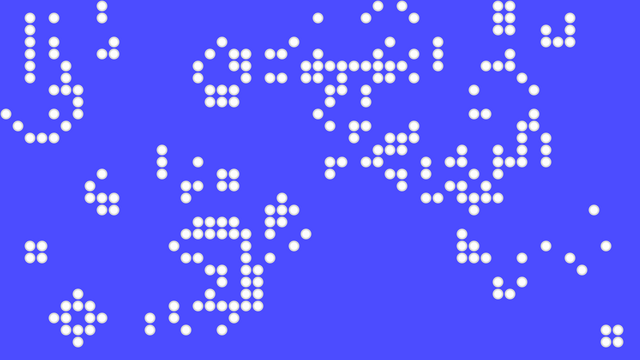
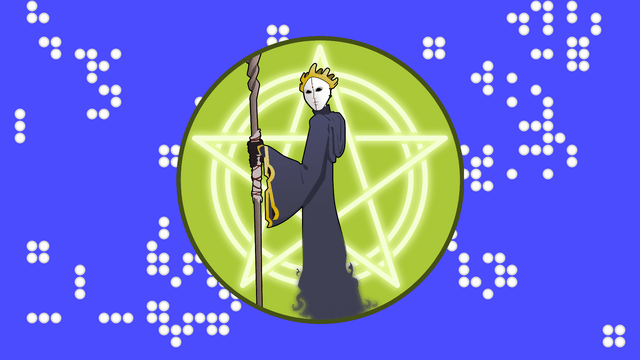
Decorate the release v1.1.0

diff --git a/CHANGE_LOG.md b/CHANGE_LOG.md
@@ -1,5 +1,20 @@
 # Change Log
 
+## [v1.1.0](https://github.com/thewizardplusplus/wizard-intro/tree/v1.1.0) (2024-06-19)
+
+Implement the drawing of the logo.
+
+- drawing of the background:
+  - automatic horizontal and vertical centering;
+  - perform refactoring:
+    - add the field wrapper;
+    - partially reimplement the field updating;
+- drawing of the logo (optionally):
+  - automatic horizontal and vertical centering;
+  - fade in and out:
+    - support for a start delay for fading in;
+    - quit at the finish of the fading out.
+
 ## [v1.0.0](https://github.com/thewizardplusplus/wizard-intro/tree/v1.0.0) (2024-06-17)
 
 Major version. Implement the drawing of the background (use [Conway's Game of Life](https://en.wikipedia.org/wiki/Conway's_Game_of_Life) as a background).

diff --git a/README.md b/README.md
@@ -17,7 +17,13 @@ _**Disclaimer:** this demo was written directly on an Android smartphone with th
   - use [Conway's Game of Life](https://en.wikipedia.org/wiki/Conway's_Game_of_Life) as a background:
     - use the naive algorithm with iterating and copying of a whole field;
     - ignore outside points;
-    - support for a start delay for populating.
+    - support for a start delay for populating;
+  - automatic horizontal and vertical centering;
+- drawing of the logo (optionally):
+  - automatic horizontal and vertical centering;
+  - fade in and out:
+    - support for a start delay for fading in;
+    - quit at the finish of the fading out.
 
 ## Running
 
